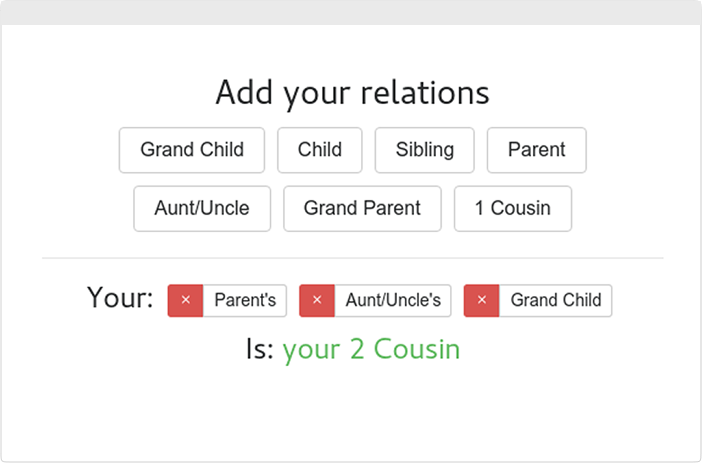
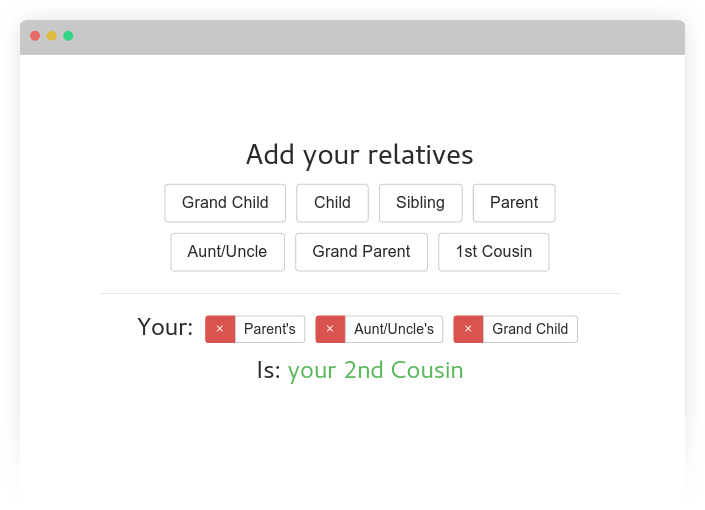
Major style and layout changes

diff --git a/index.html b/index.html
@@ -7,7 +7,29 @@
     <link href="https://fonts.googleapis.com/icon?family=Material+Icons" rel="stylesheet">
   </head>
   <body>
+    <div class="jumbotron jumbotron-fluid text-center" id="main-content">
+      <div class="container">
+        <h1 class="display-4">Relatable</h1>
+        <p class="lead">
+          The easiest way to figure out who your mum's cousin's best friend's son is...
+        </p>
+        <hr class="m-5" />
+        <div class="row justify-content-center align-items-center">
+          <div class="col-md-6 push-md-6 text-md-left">
+            <h3>Our Relative Calculator</h3>
+            <p>
+              Relatable is a "cousin calculator" built with humans in mind. We don't expect you to know who your 1st cousin twice removed is, or who your great aunt Betty's little grand son Joe is to you, or why you care! Just start plugging your relations into our calculator and we'll do the hard work for you.
+            </p>
+            <a href="#calculator-container" class="btn btn-primary">Get Started!</a>
+          </div><!-- /col-md-6 -->
+          <div class="col-md-6 pull-md-6">
+            <img src="static/img/screenshot.png" class="img-fluid" alt="Relatable Calculator">
+          </div><!-- /col-md-6 -->
+        </div><!-- /row -->
+      </div><!-- /container -->
+    </div><!-- /jumbotron -->
     <div id="app"></div>
     <!-- built files will be auto injected -->
+    <script type="text/javascript" src="static/js/smooth-scroll.min.js"></script>
   </body>
 </html>

diff --git a/src/App.vue b/src/App.vue
@@ -1,22 +1,6 @@
 <template>
   <div id="app">
-    <div class="jumbotron jumbotron-fluid text-center bg-success text-white">
-      <div class="container">
-        <h1 class="display-4">Relatable</h1>
-        <p class="lead">
-          The easiest way to figure out who your mum's cousin's best friend's son is...
-        </p>
-        <hr/>
-        <div class="row justify-content-center">
-          <div class="col-md-8">
-            <p>
-              Relatable is a "relation calculator" built with humans in mind. We don't expect you to know who your 1st cousin twice removed is, or who your great aunt Betty's little grand son Joe is to you, or why you care! Just start plugging your relations into our calculator and we'll do the hard work for you.
-            </p>
-          </div><!-- /col-md-6 -->
-        </div><!-- /row -->
-      </div><!-- /container -->
-    </div><!-- /jumbotron -->
-    <div class="container text-center">
+    <div class="container p-5 text-center" id="calculator-container">
       <div>
         <h3>Add your relatives</h3>
         <relation v-for="option in options" :chain="option"/>
@@ -34,7 +18,6 @@
               <small class="text-muted" v-if="index !== allRelations.length - 1"> or </small>
             </span>
           </h4>
-{{allRelations}}
         </div>
       </div>
     </div>
@@ -89,5 +72,10 @@ export default {
  #app .btn i
  {
    font-size: 0.8em;
+ }
+
+ #main-content
+ {
+   padding-bottom: 0;
  }
 </style>

diff --git a/static/js/smooth-scroll.min.js b/static/js/smooth-scroll.min.js
@@ -1,0 +1,2 @@
+/* smooth-scroll.js v1.3.1 */
+(function(e,t){"use strict";var n=0,r=500,i=15,s=document.getElementsByTagName("a"),o;for(var u=0;u<s.length;u++){o=s[u].attributes.href===t?null:s[u].attributes.href.nodeValue.toString();if(o!==null&&o.length>1&&o.indexOf("#")!=-1){s[u].onclick=function(){var n,s=this.attributes.href.nodeValue.toString(),o=s.substr(0,s.indexOf("#")),u=s.substr(s.indexOf("#")+1);if(n=document.getElementById(u)){var l=(r-r%i)/i,c=f(),h=(a(n)-c)/l;if(e.history&&typeof e.history.pushState=="function")e.history.pushState({},t,o+"#"+u);for(var p=1;p<=l;p++){(function(){var t=h*p;setTimeout(function(){e.scrollTo(0,t+c)},i*p)})()}return false}}}}var a=function(e){var r=n*-1;while(e.offsetParent!=t&&e.offsetParent!=null){r+=e.offsetTop+(e.clientTop!=null?e.clientTop:0);e=e.offsetParent}return r};var f=function(){return e.pageYOffset!==t?e.pageYOffset:document.documentElement.scrollTop!==t?document.documentElement.scrollTop:document.body.scrollTop}})(window)
